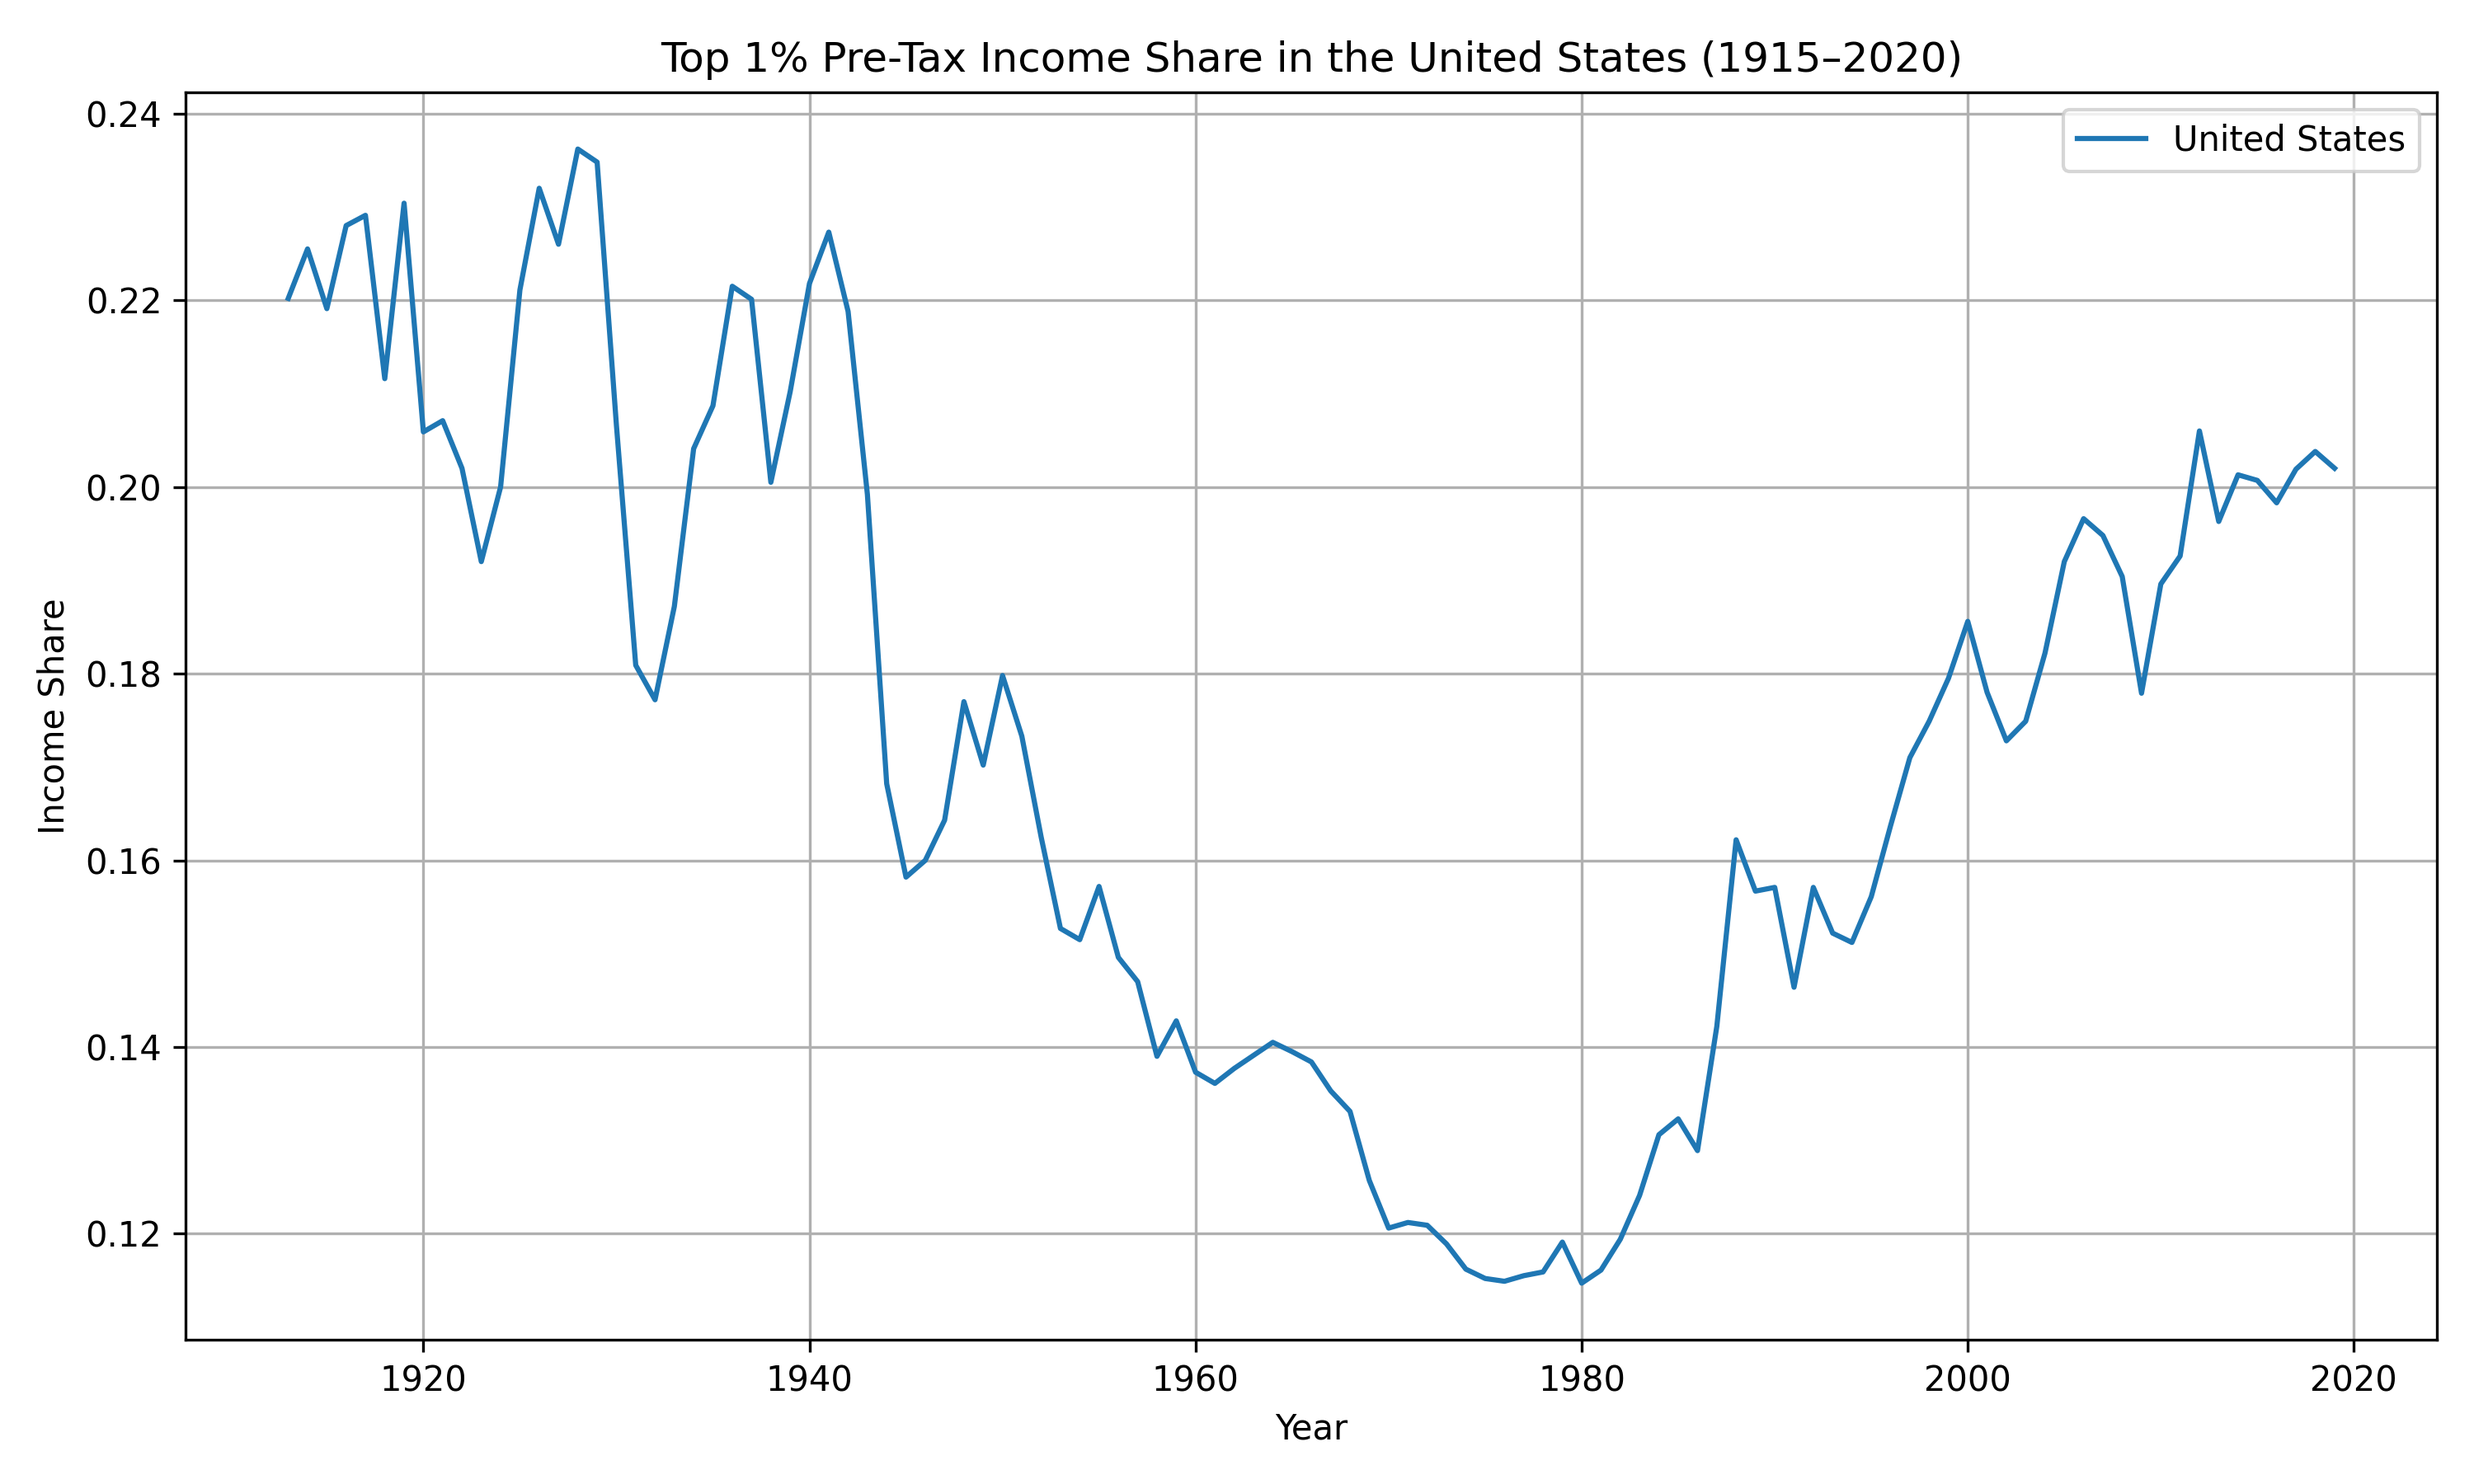
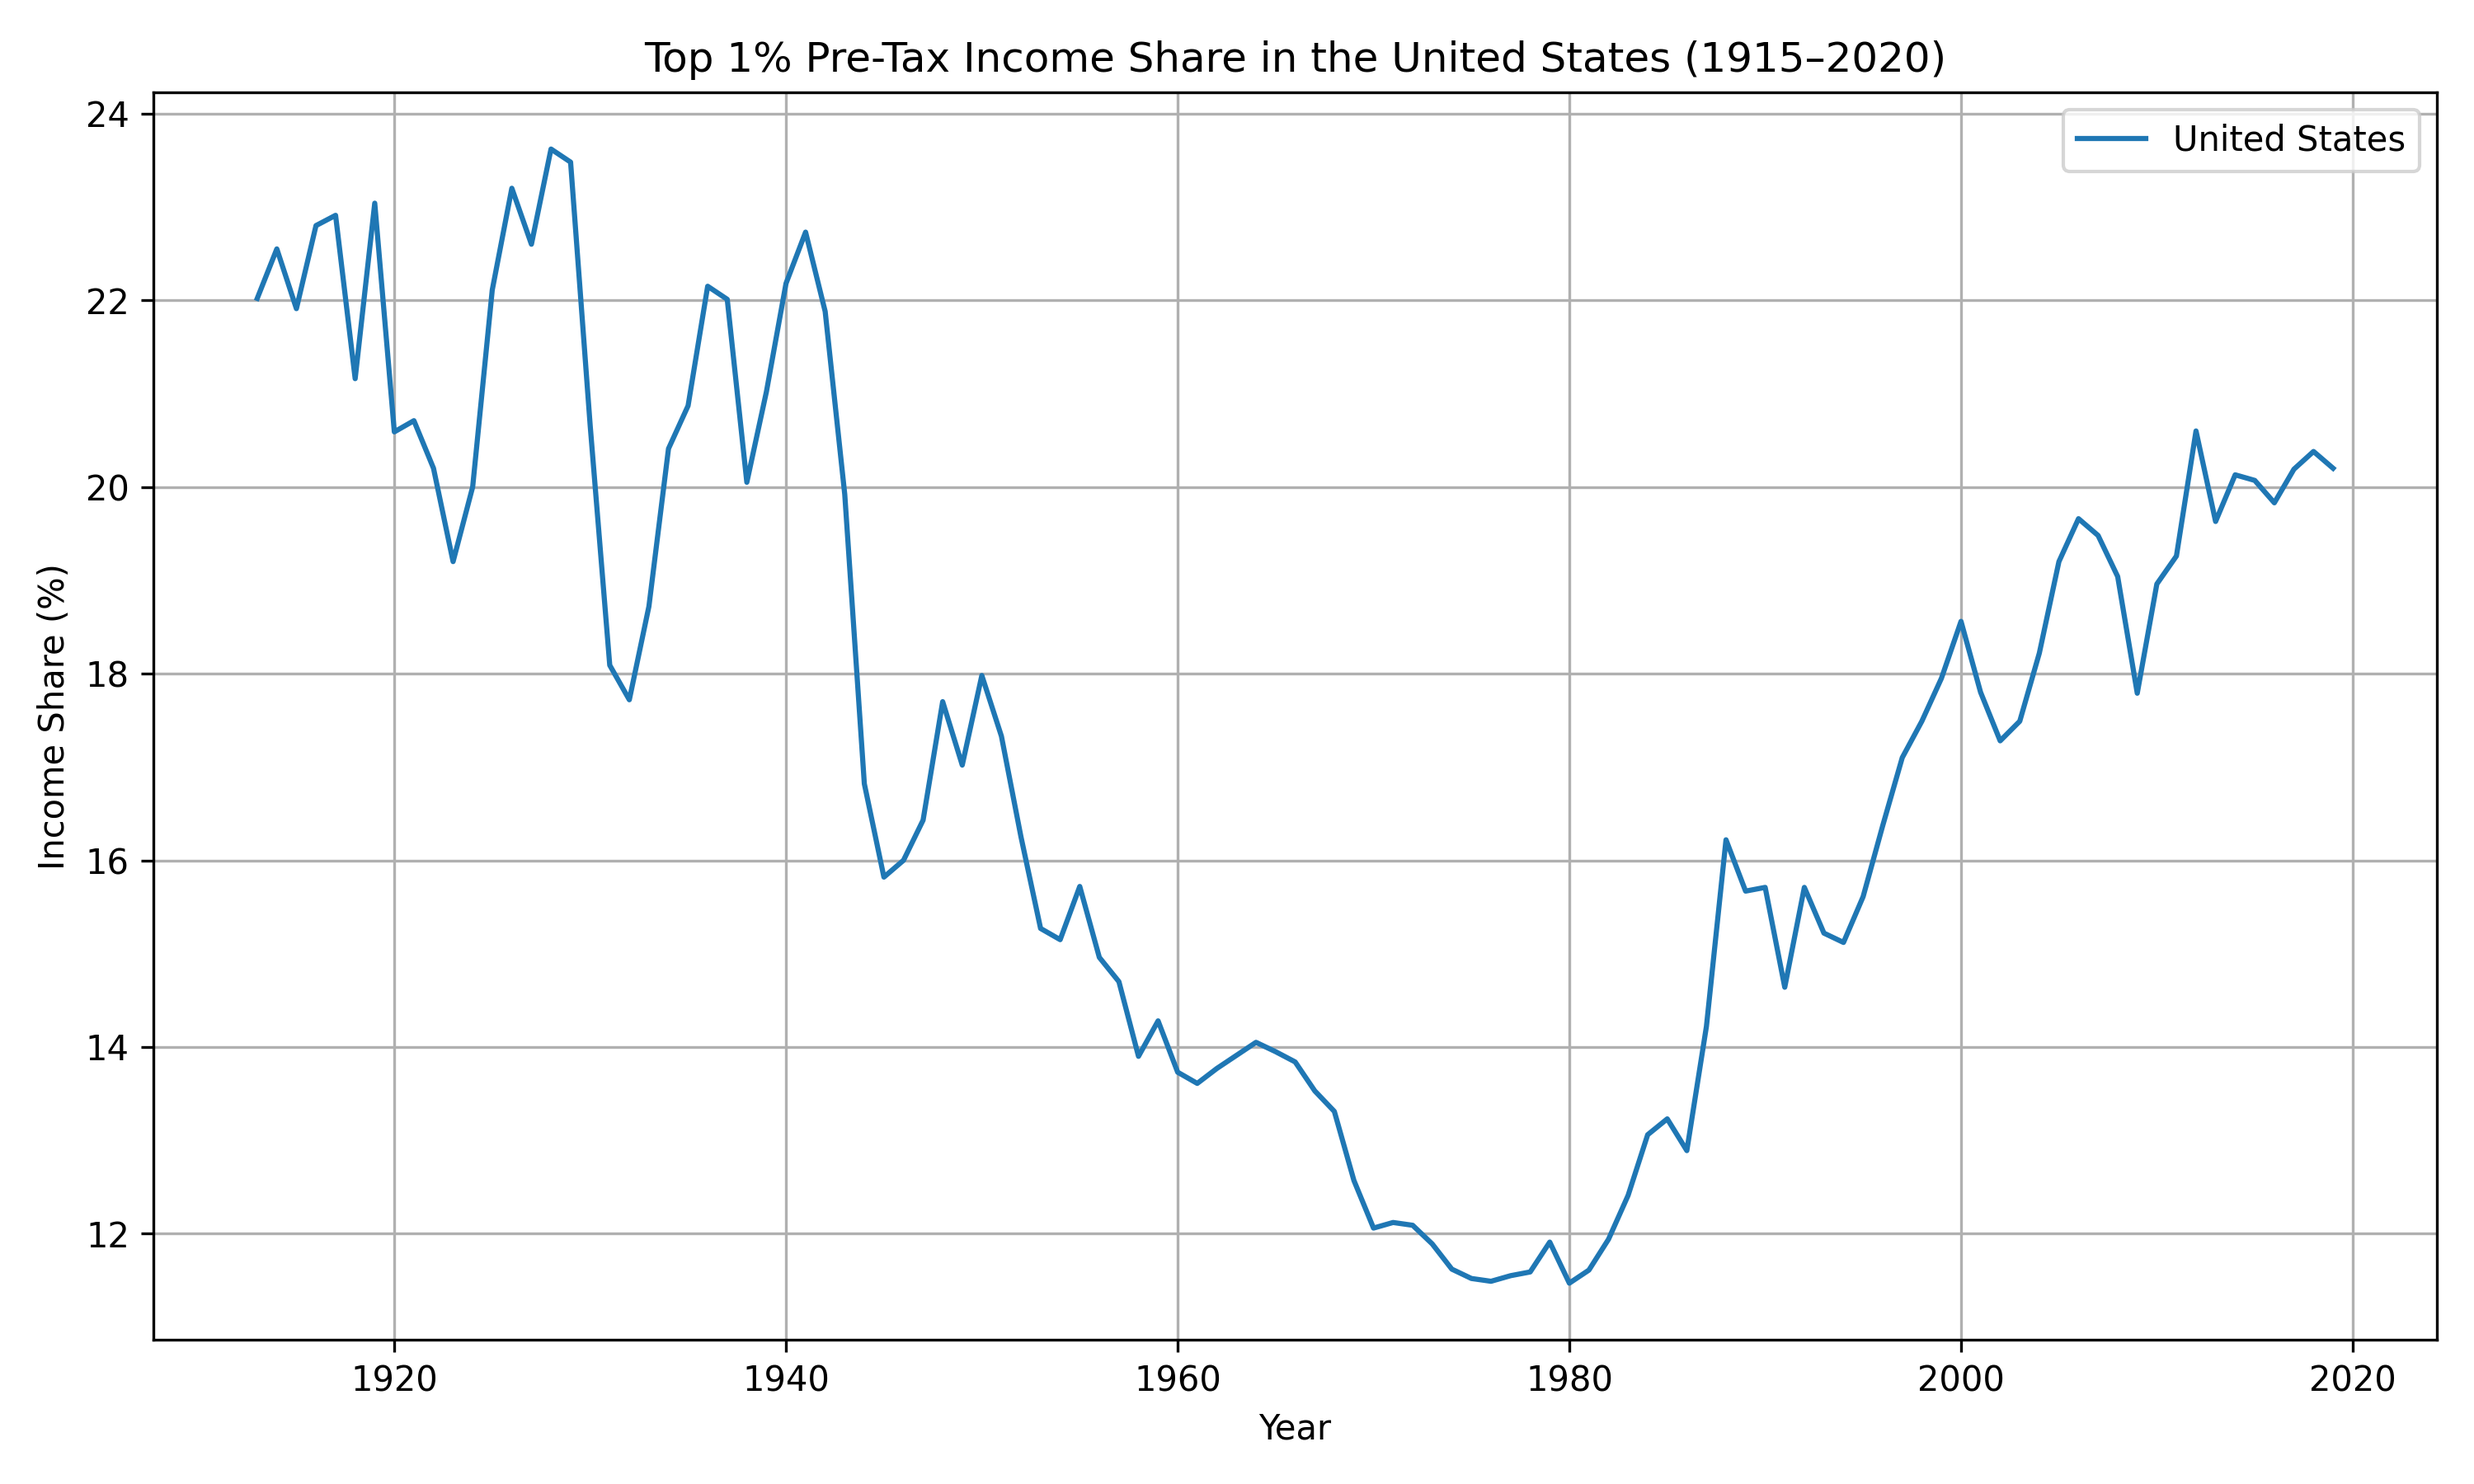
changing graph y axis to percentage

diff --git a/src/usa_top1_income_share.py b/src/usa_top1_income_share.py
@@ -21,6 +21,9 @@ conn.close()
 country_map = {'US': 'United States'}
 df['country'] = df['country'].map(country_map)
 
+# Convert income share from decimal to percentage
+df['value'] = df['value'] * 100
+
 # Plot
 plt.figure(figsize=(10,6))
 for country in df['country'].unique():
@@ -29,7 +32,7 @@ for country in df['country'].unique():
 
 plt.title("Top 1% Pre-Tax Income Share in the United States (1915–2020)")
 plt.xlabel("Year")
-plt.ylabel("Income Share")
+plt.ylabel("Income Share (%)")
 plt.legend()
 plt.grid(True)
 plt.tight_layout()
